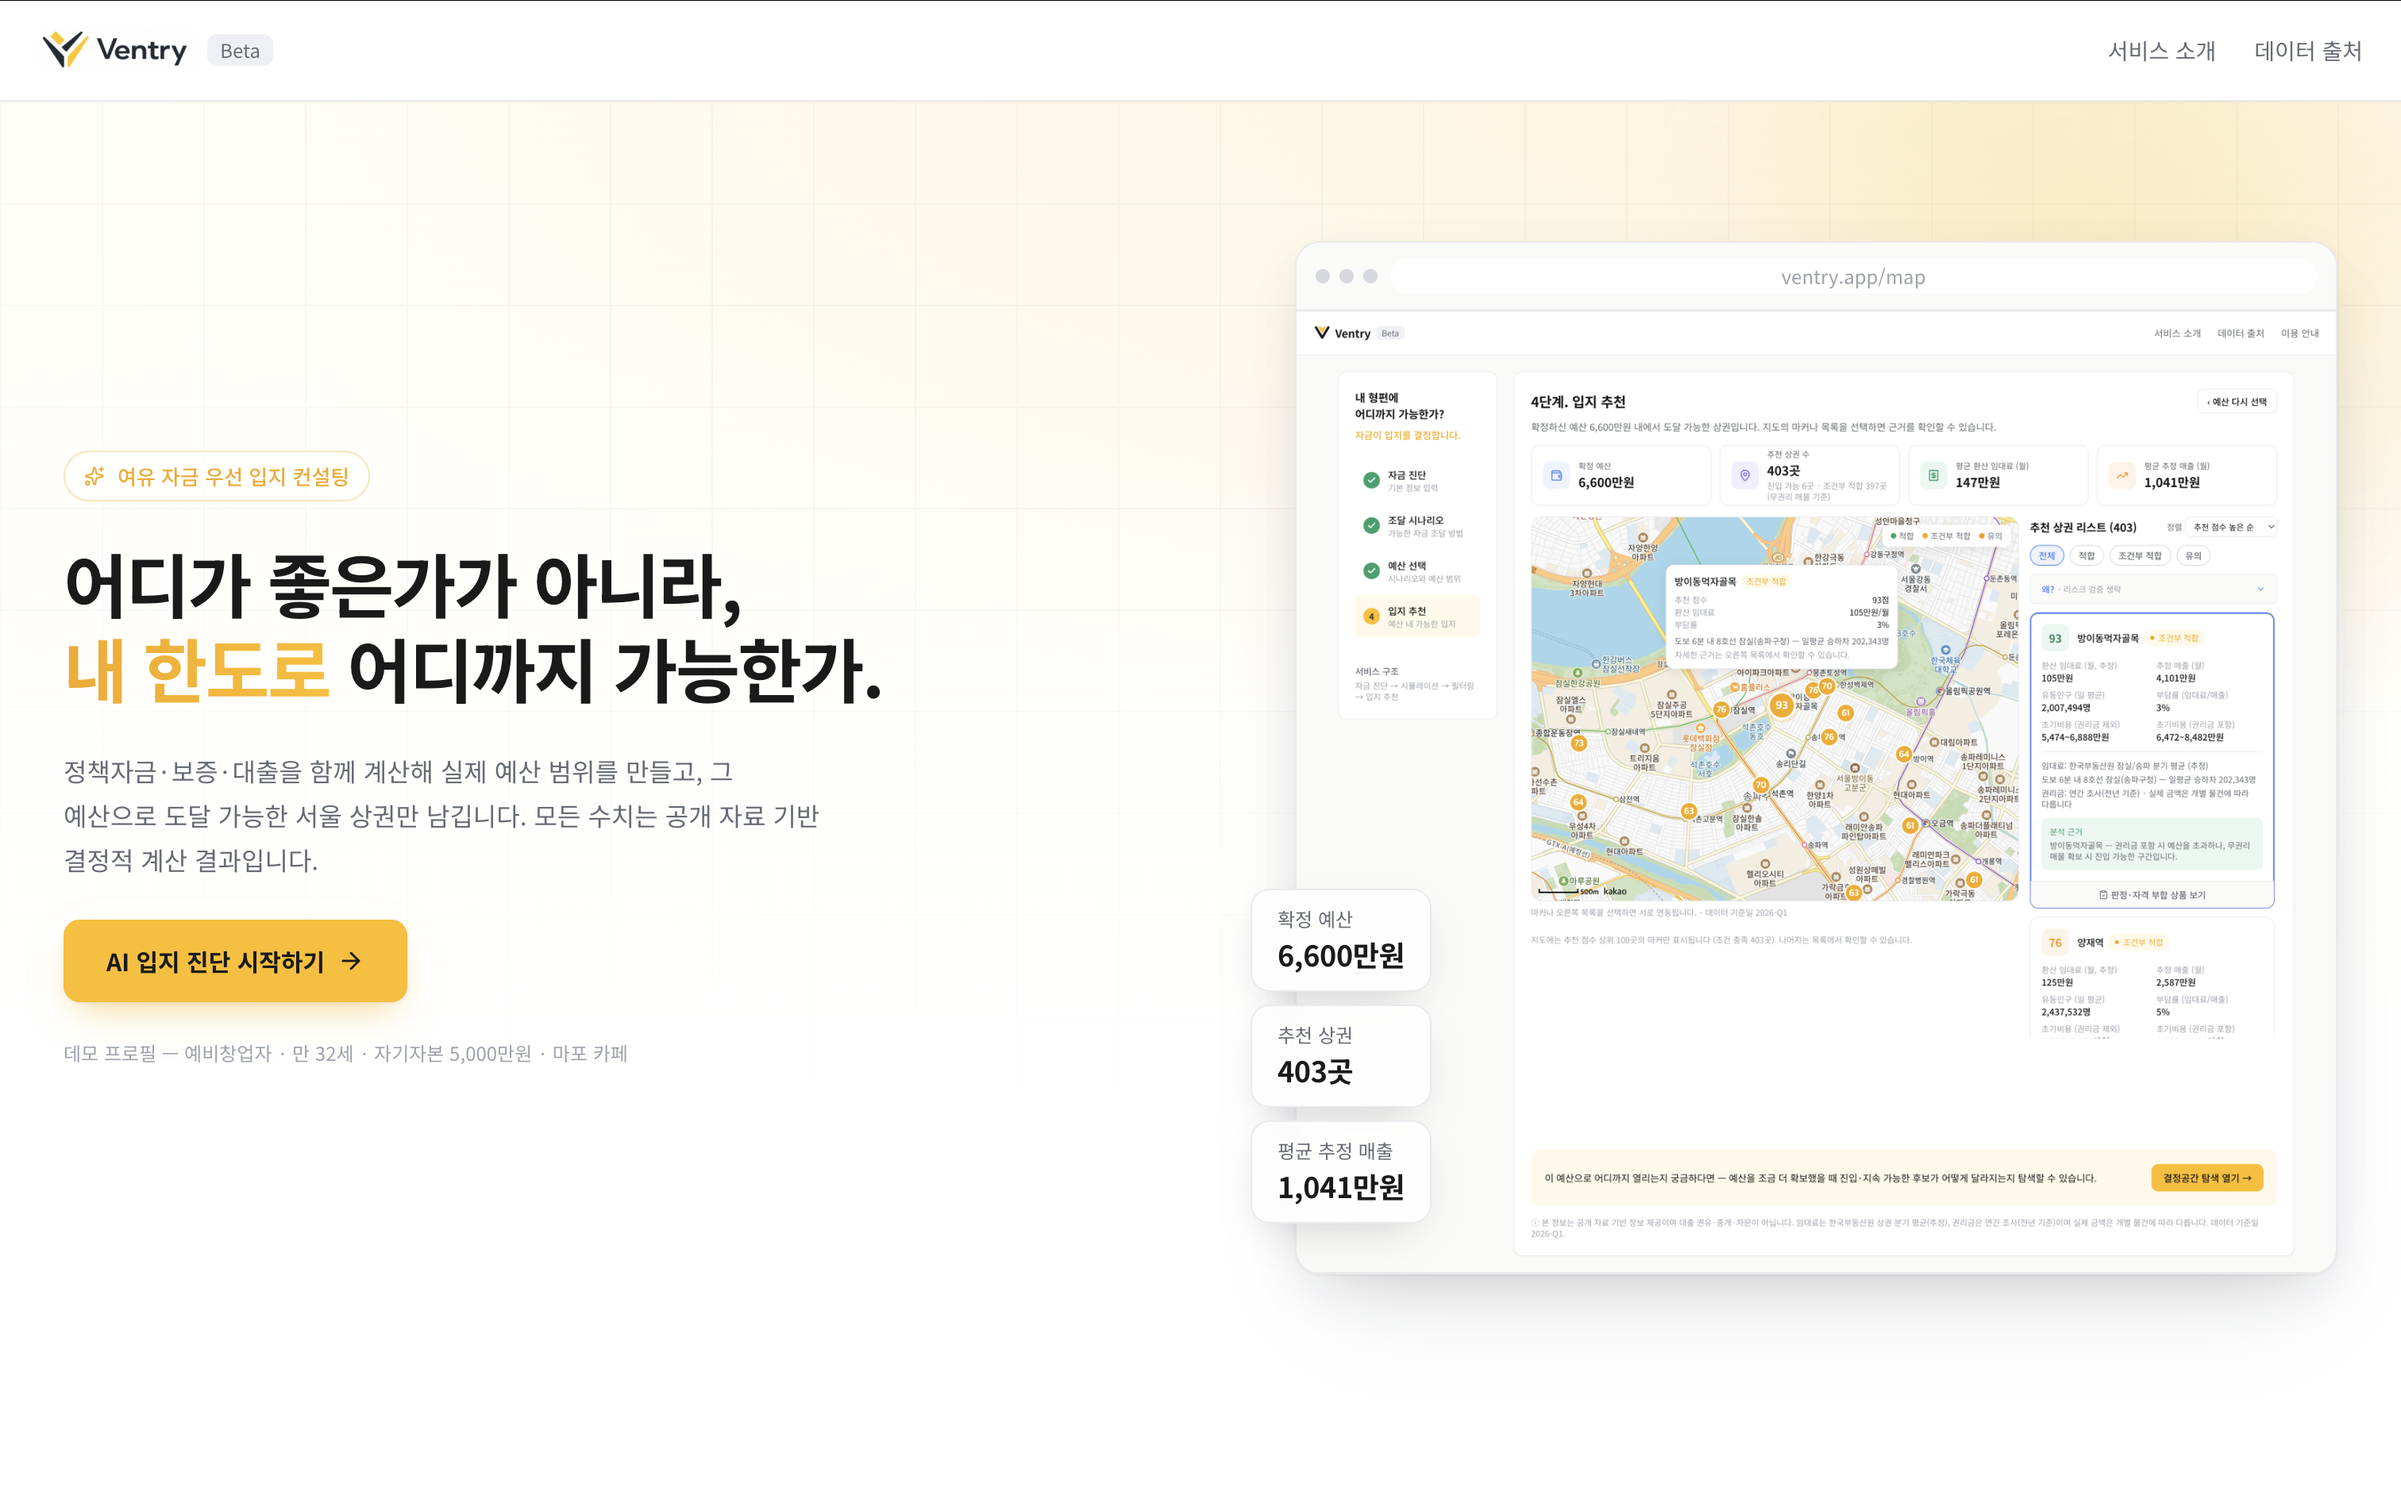
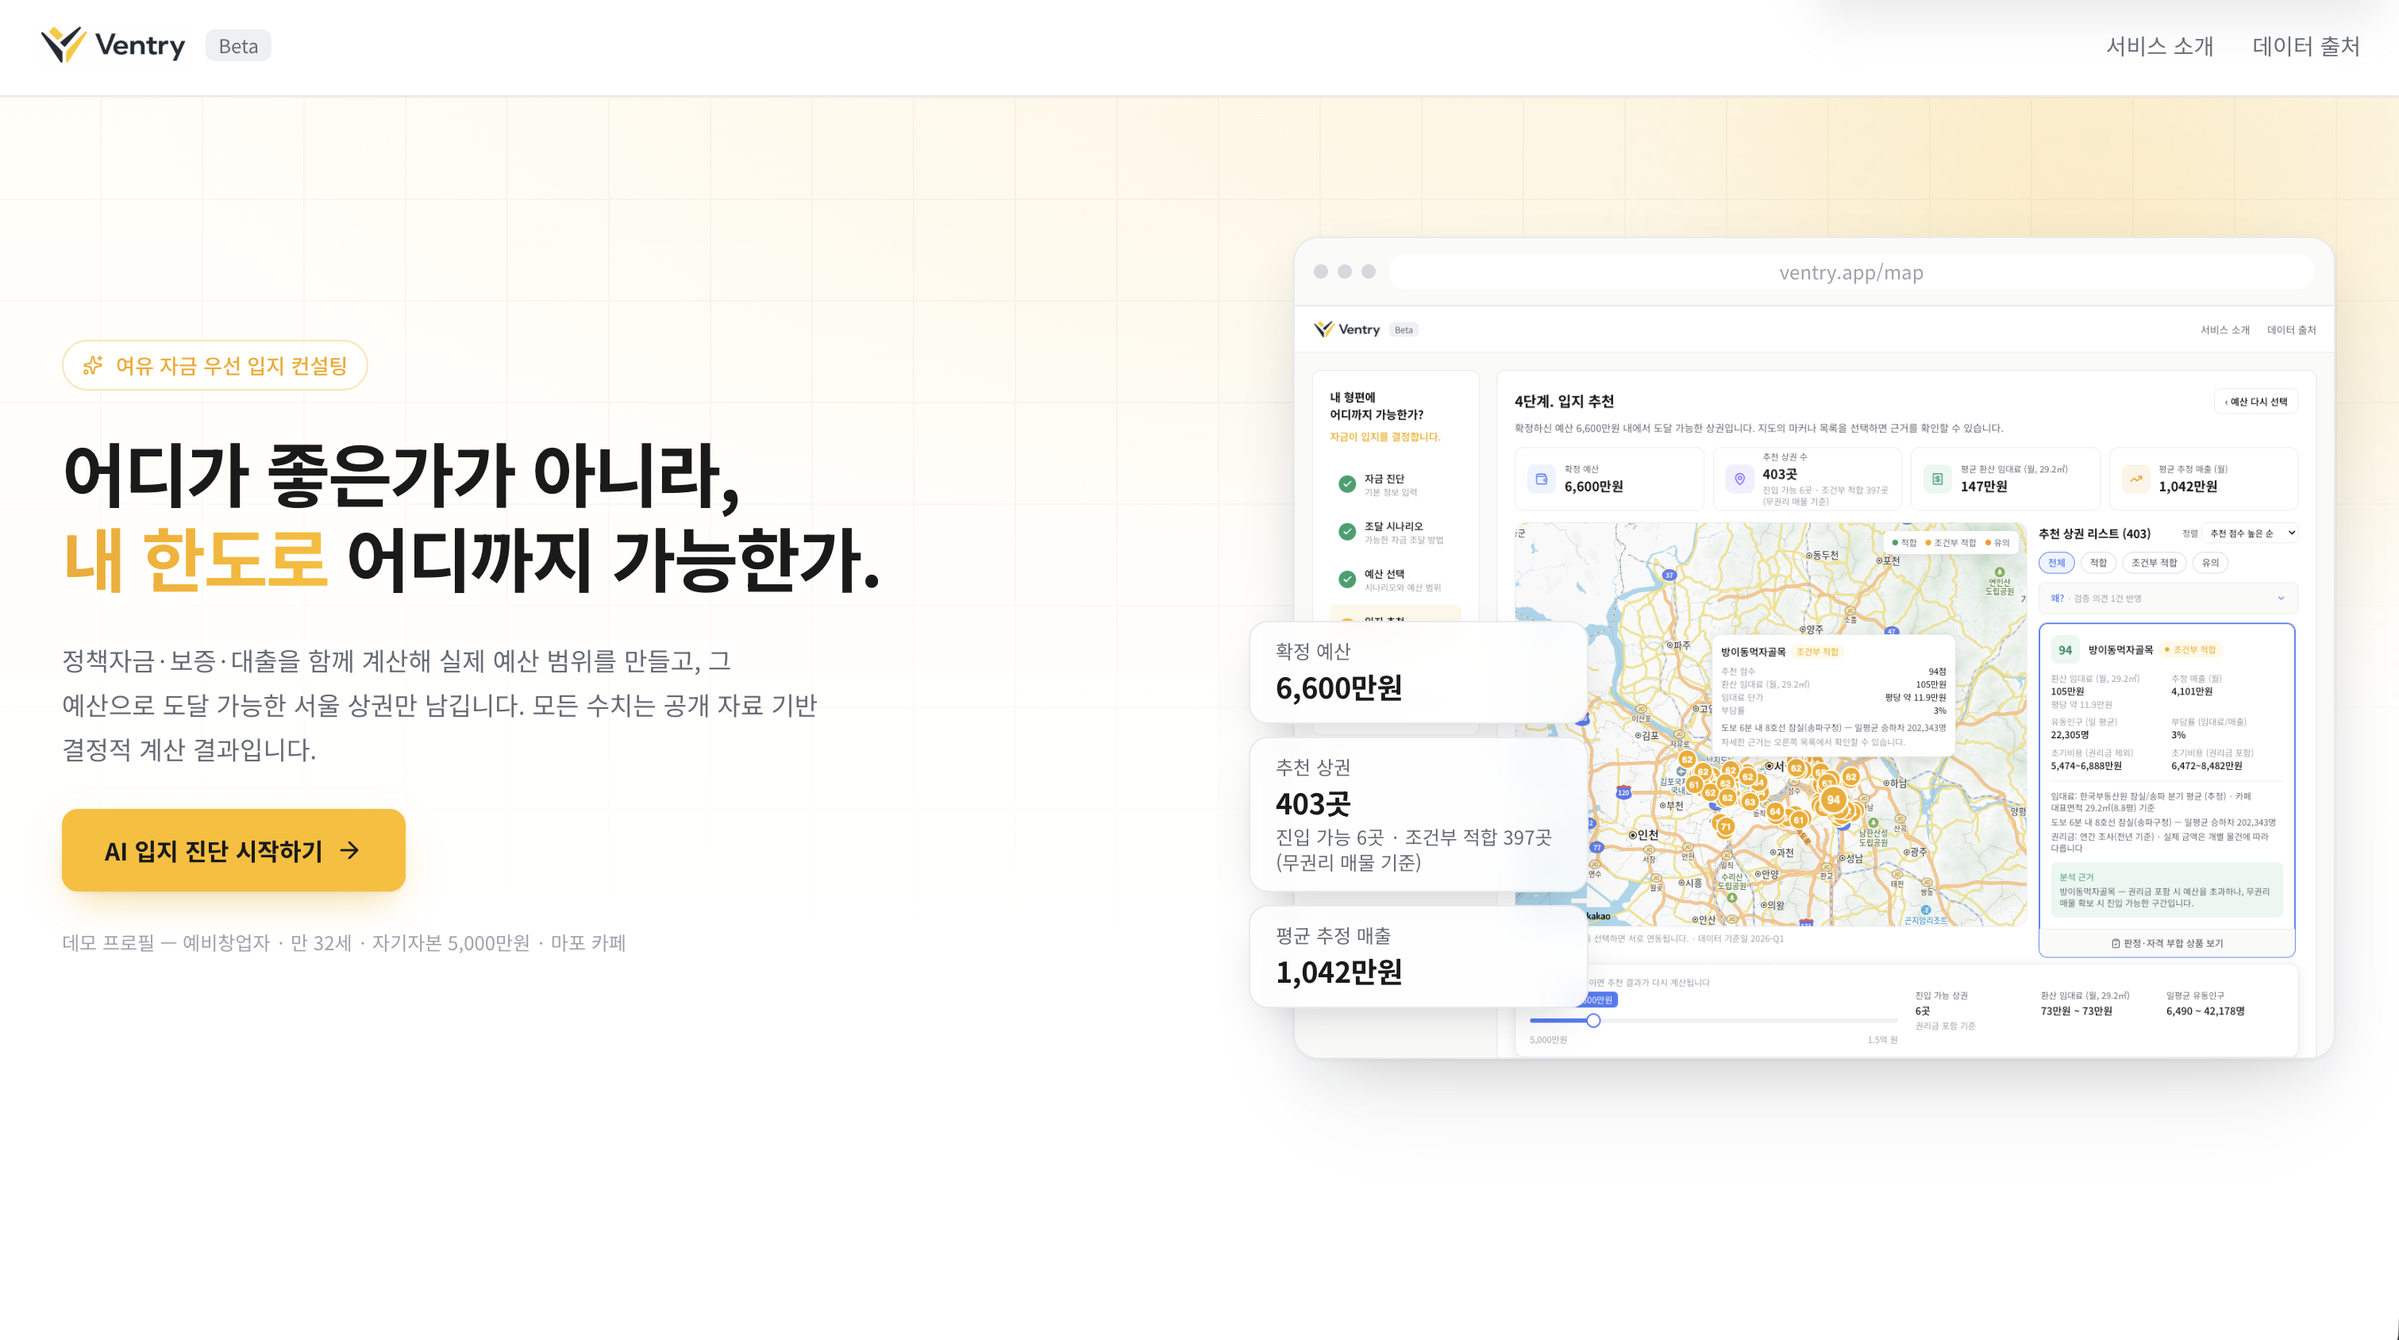
[CM] docs: 데모 캡처 4장 재촬영 — 07-26 캡처본의 낡은 수치 해소
캡처가 2026-07-26 판이라 이후 189개 커밋의 변경이 반영돼 있지 않았다.
특히 demo-3 은 README 3분 도슨트 대본과 수치가 전부 어긋난 상태였다.

demo-3 — 대본 정합 회복
- 확정 예산 1.5억 → 1억 · 진입 가능 1,057곳 → 382곳 · 조건부 적합 4곳 → 636곳
  (통합 QA D1 이 정확 일치로 단언하는 값과 일치)
- 일평균 유동인구 0~8,060,412명 → 144~65,705명. 분기 총계를 실일수로 나누지 않아
  약 90배 과대계상됐던 값으로, 앱은 이슈 #106 에서 고쳤으나 캡처에만 남아 있었다.
- 리스크 검증 「생략」 → 「검증 의견 1건 반영」. AI 개입 지점이 정지 화면에 남는다.
- 지도가 인천·파주까지 잡히던 문제 해소 — 서울 스코프가 그림에서 살아났다.
- 환산 임대료 표기가 대표면적 44㎡ 기준(cost.py REPRESENTATIVE_AREA_M2)으로 갱신됐다.

demo-1 — 「KB 마이데이터 공식 연동」 표기가 「마이데이터 연동 (데모)」 로 바뀌었다.
실제 금융기관 연동이 있는 것처럼 읽히던 자리다.

demo-0 · demo-2 — 현행 화면으로 재촬영.

README 캡션의 해상도는 재촬영본 실측(약 3,020×1,690)으로 고쳤다.

검증: 통합 QA 21종 전건 PASS / term_sweep 용어 위반 0건

diff --git a/README.md b/README.md
@@ -74,7 +74,7 @@ docker compose up --build   # → http://localhost:3000
 |---|---|
 | ![화면 2 — 조달 시나리오 카드](docs/images/demo-2.png) | ![화면 3 — 지도 마커·근거 패널·리스크 검증](docs/images/demo-3.png) |
 
-> 캡처는 3024×1898 · 데모 프로필 기준입니다.
+> 캡처는 레티나 원본(약 3,020×1,690) · 데모 프로필 기준입니다.
 
 ---
 
